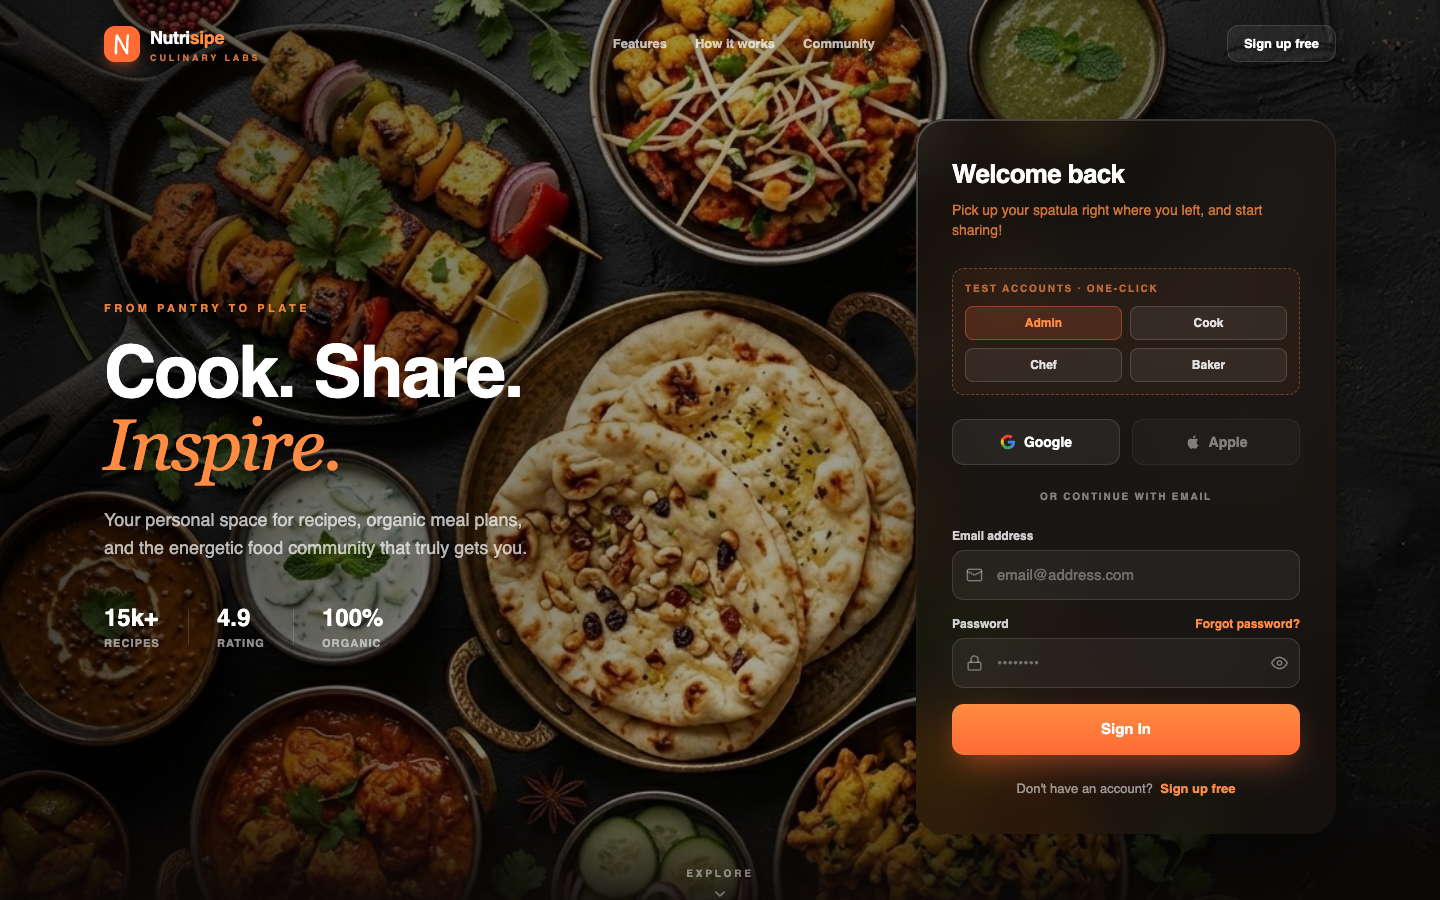
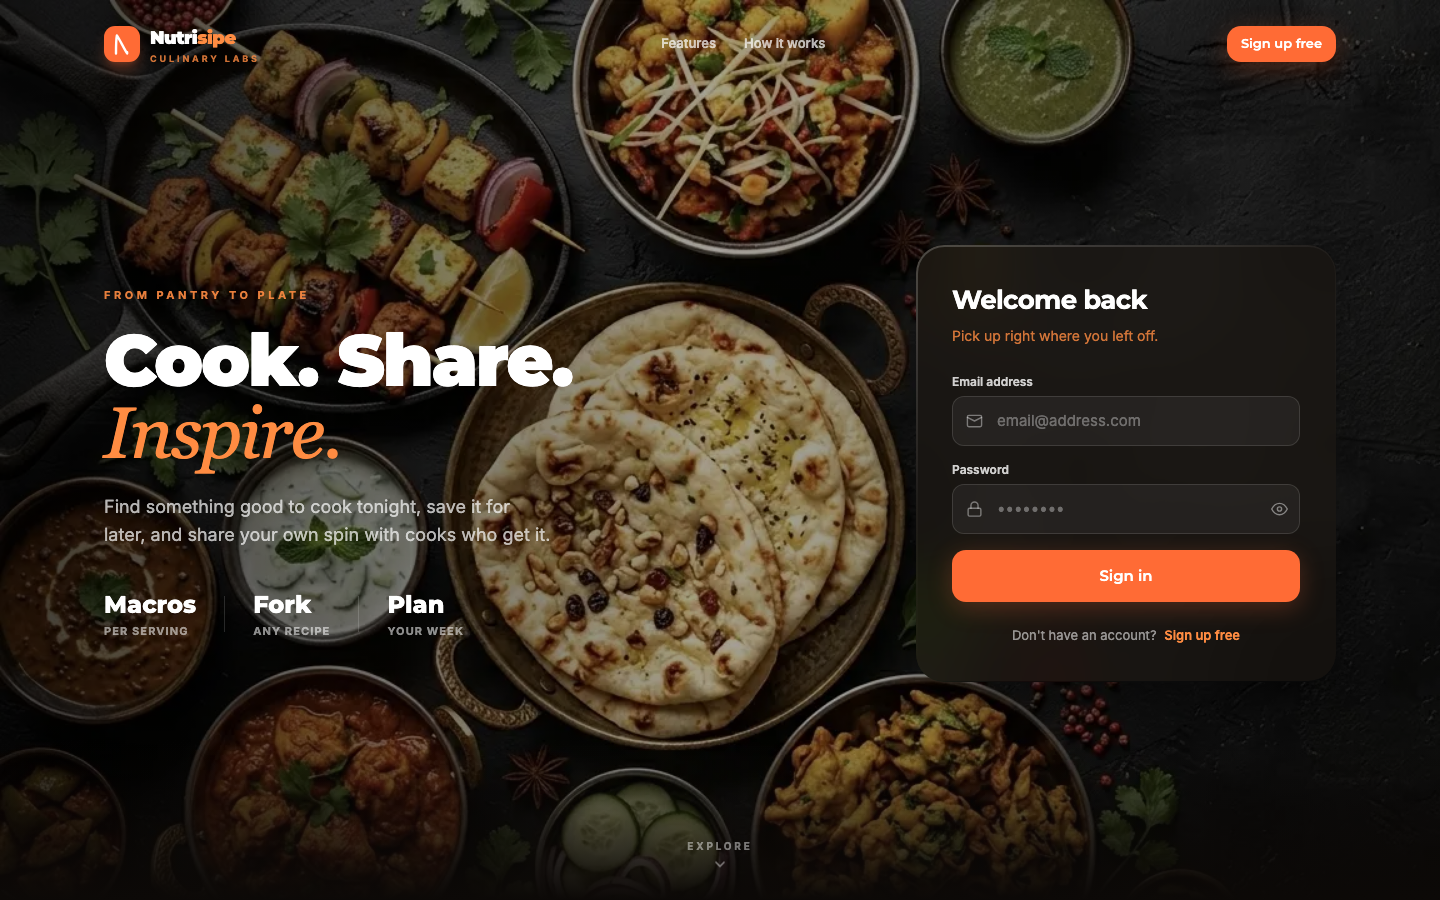
feat: update Nutrisipe case study for the Vue revamp
- Rewrite the entry for the Vue 3 + Express/Prisma rebuild: stack,
  timeline, live link, and new sections on the design system and
  security hardening
- Replace the hero with a production screenshot of the new landing page
- Fix CaseStudyField uniforms to match the shared particle shader
  (8 exclusion zones, vec2 uOffsetScale); the mismatch threw WebGL
  upload errors on every case-study page

diff --git a/src/data/projectsData.ts b/src/data/projectsData.ts
@@ -154,14 +154,14 @@ export const useRiskStore = defineStore('risk', () => {
     title: 'Nutrisipe',
     categoryLabel: 'Social / Recipe Platform',
     description:
-      'A food-first social recipe platform with recipe forking, automatic macro calculations, meal planning, and a real-time social feed. Live on Cloudflare Pages.',
+      'A food-first social recipe platform with recipe forking, automatic macro calculations, meal planning, stories, and real-time messaging. Rebuilt from React and Sanity into a typed Vue 3 and Express stack.',
     backgroundImage: new URL('@/assets/projects/nutrisipe-hero.png', import.meta.url).href,
     role: 'Solo Developer',
-    stack: 'React 17, Sanity CMS, Socket.io, Google OAuth, Tailwind',
-    timeline: '2023',
-    liveUrl: 'https://officialnutrisipe.pages.dev/',
+    stack: 'Vue 3, TypeScript, Pinia, Tailwind, HeadlessUI, Express, Prisma, PostgreSQL, Socket.IO',
+    timeline: '2023 — 2026',
+    liveUrl: 'https://nutrisipe-frontend.onrender.com/',
     introStatement:
-      'Nutrisipe answers one question — what to cook tonight — with a visual, social-first feed instead of text-heavy blog posts. Recipes are treated as social objects: saveable, remixable, and nutritionally transparent. Users can fork existing recipes into their own variations, plan weekly meals on a drag-and-drop calendar, and generate grocery lists automatically.',
+      'Nutrisipe answers one question — what to cook tonight — with a visual, social-first feed instead of text-heavy blog posts. Recipes are treated as social objects: saveable, remixable, and nutritionally transparent. Users can fork existing recipes into their own variations, plan weekly meals on a drag-and-drop calendar, and generate grocery lists from the plan.',
     heroImage: new URL('@/assets/projects/nutrisipe-hero.png', import.meta.url).href,
     sections: [
       {
@@ -170,11 +170,19 @@ export const useRiskStore = defineStore('risk', () => {
       },
       {
         heading: 'Recipe forking and nutrition math',
-        body: "The platform's signature mechanic is recipe forking: users take an existing recipe, swap ingredients, and save a derivative with a credit trail back to the original. Every fork inherits and recalculates the nutrition profile automatically. Macros — calories, protein, fats, carbs — are computed per serving from a managed ingredient database, so no manual entry is required. Users can drag saved recipes into a weekly meal planner and generate a grocery list from it.",
+        body: "The platform's signature mechanic is recipe forking: users take an existing recipe, swap ingredients, and save a variation with a credit trail back to the original. Every fork recalculates its nutrition profile automatically. Macros — calories, protein, fats, carbs — are computed per serving from a managed ingredient database, so no manual entry is required. Saved recipes drag into a weekly meal planner, which feeds the grocery list.",
       },
       {
-        heading: 'Admin and content layer',
-        body: 'An admin suite provides real-time platform analytics, user management, and a database editor for the global ingredient records that power macro calculations. Authentication is federated through Google OAuth. The content layer is managed through Sanity CMS with image assets served from its CDN, absorbing content-model changes without migrations on the client.',
+        heading: 'From React and Sanity to a typed full stack',
+        body: 'The first version ran on React 17 with Sanity CMS as the backend. The revamp rebuilds it as a Vue 3 + TypeScript client over an Express API with Prisma and PostgreSQL, so the data model lives in versioned migrations instead of a hosted CMS. Sessions use httpOnly cookies, and Socket.IO drives real-time direct messages and notifications. Stories, ratings, comments, and collections round out the social layer, with an admin suite for moderation, reports, and the ingredient records behind the macro math.',
+      },
+      {
+        heading: 'A design system, not a pile of screens',
+        body: 'Seventeen views were brought onto one token set — color, radius, shadow, and easing as CSS variables consumed by Tailwind — and onto shared primitives. A single button component covers every variant, size, and router link. Every modal now runs through one HeadlessUI-based dialog with focus trapping, Escape handling, scroll lock, and a bottom-sheet layout on phones. Native browser confirm() calls were replaced with a promise-based confirmation dialog, and unsaved recipe drafts prompt before they are discarded.',
+      },
+      {
+        heading: 'Hardening the front door',
+        body: 'The landing page was rewritten with honest copy in place of placeholder stats and testimonials, a hero image cut from JPEG to a 150 KB WebP, and accessible form labels and error announcements. Dev-only test accounts are compiled out of the production bundle. An audit also caught a sign-in route that trusted a client-supplied email without verifying a Google token; it is now restricted to development until server-side verification lands.',
       },
     ],
     gallery: [

diff --git a/src/components/CaseStudy/CaseStudyField.vue b/src/components/CaseStudy/CaseStudyField.vue
@@ -45,17 +45,11 @@ const uniforms = {
   uInteractPos: { value: new Vector3() },
   uOffsetFrom: { value: new Vector2() },
   uOffsetTo: { value: new Vector2() },
-  uOffsetScale: { value: 0 },
+  uOffsetScale: { value: new Vector2() },
   uFormationScale: { value: 0.85 },
   uExclusionCount: { value: 0 },
-  uExclusionZones: {
-    value: [
-      new Vector4(),
-      new Vector4(),
-      new Vector4(),
-      new Vector4(),
-    ]
-  }
+  // must match `uniform vec4 uExclusionZones[8]` in shaders/particles.ts or three crashes on upload
+  uExclusionZones: { value: Array.from({ length: 8 }, () => new Vector4()) },
 }
 
 const material = new ShaderMaterial({
